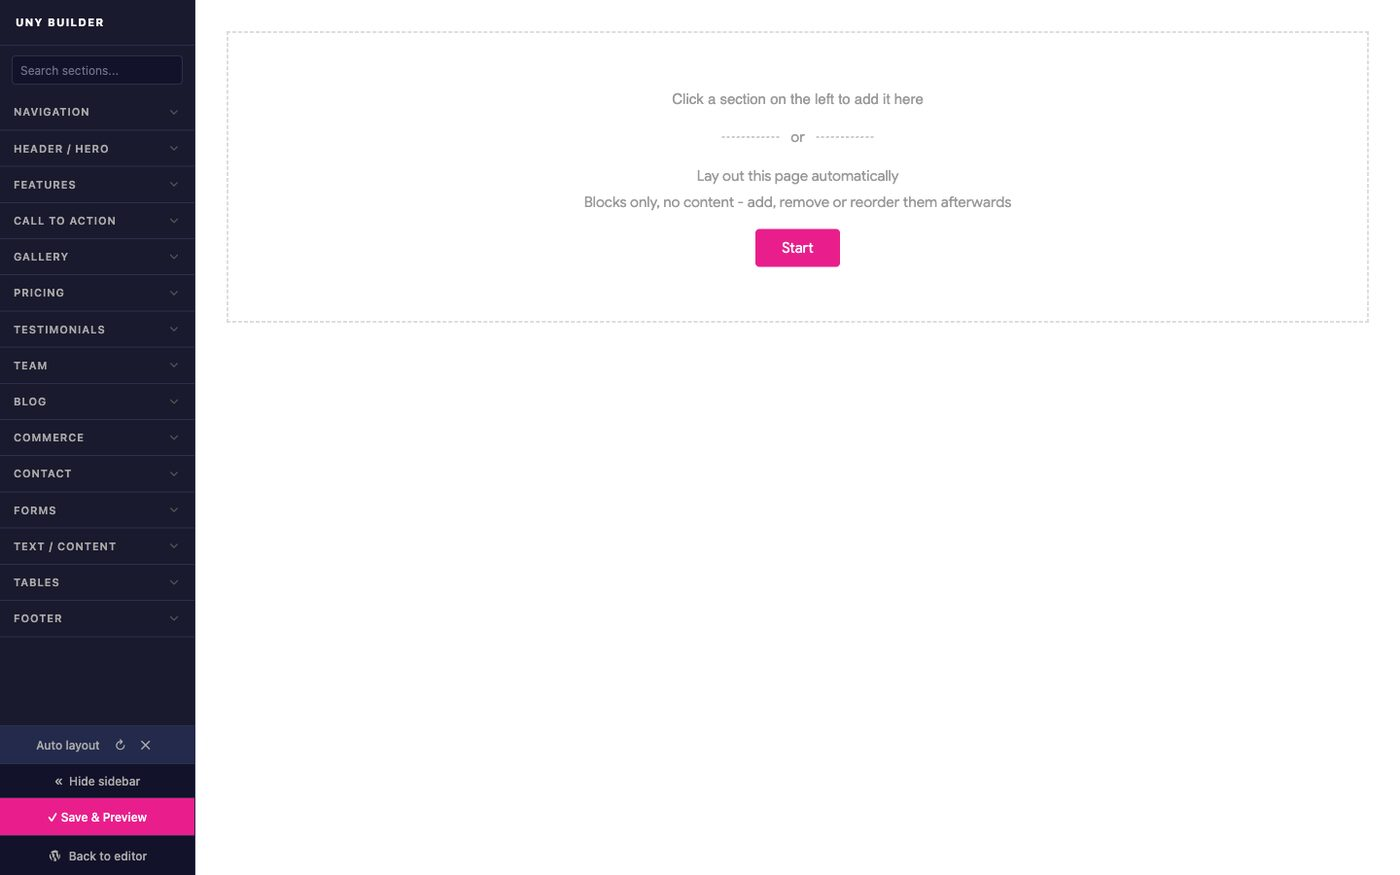
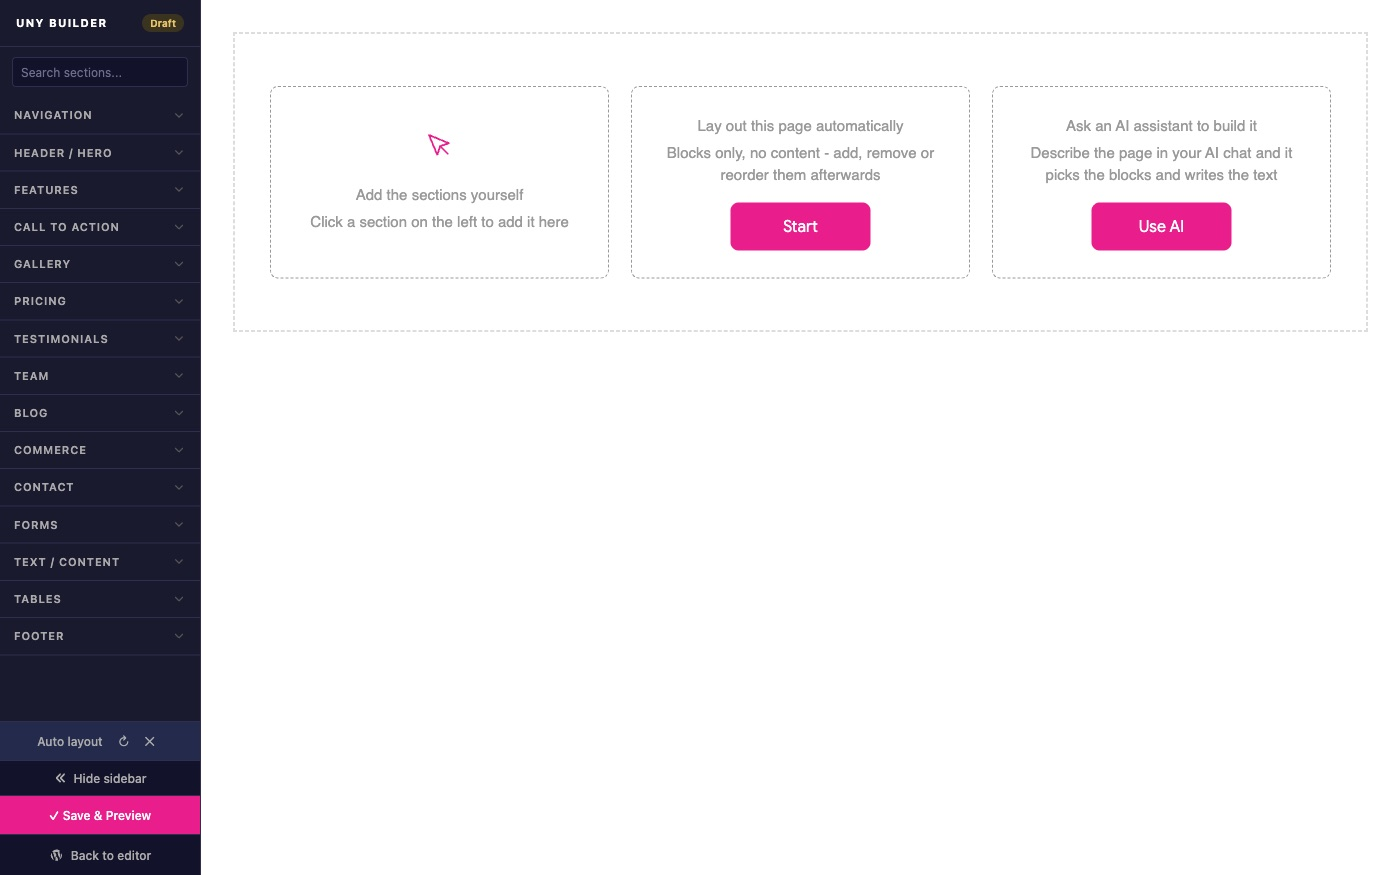
first release docs for uny ai done

diff --git a/src/pages/Builder.jsx b/src/pages/Builder.jsx
@@ -24,7 +24,7 @@ const Builder = () => {
       <main className='page-content'>
         <HeroMini
           title="The Builder"
-          text="214 sections in 15 groups, edited straight on the page - on pages and on blog posts alike. How to insert, fill and reorder them, how the blocks pull in your menus, posts and products by themselves, and the two ways to have a page drafted for you."
+          text="214 sections in 15 groups, edited straight on the page - on pages and on blog posts alike. How to insert, fill and reorder them, how the blocks pull in your menus, posts and products by themselves, and the three ways to fill a page: by hand, by the generator, or by an AI chat."
         />
         <div className="container m-b-120">
           <div className="row col-lg-10 ma">
@@ -113,13 +113,18 @@ const Builder = () => {
 
             <section id="autolayout">
               <h3>8. Auto Layout</h3>
-              <p>On a page with no sections yet, the builder offers to draft one for you.</p>
-              <img src={shotAutoEmpty} alt="The Auto Layout offer on an empty page" className={shot} style={shotStyle} />
-              <p>Describe the page in a line - a shop, a services page, a product page - and the builder composes a matching sequence of sections.</p>
-              <img src={shotAutoModal} alt="The Auto Layout dialog" className={shot} style={shotStyle} />
+              <p>A page with no sections yet does not sit there empty. It offers you the three ways of filling it, side by side:</p>
+              <img src={shotAutoEmpty} alt="The empty builder canvas offering three ways to fill the page" className={shot} style={shotStyle} />
+              <ul>
+                <li><strong>Add the sections yourself</strong> - pick them from the groups in the sidebar, in any order you like.</li>
+                <li><strong>Lay out this page automatically</strong> - press Start and answer one question; the generator picks the blocks and their order.</li>
+                <li><strong>Ask an AI assistant to build it</strong> - the chat route described in the <a href="/assistant">Assistant</a> guide, which fills in the words as well.</li>
+              </ul>
+              <p>Press <strong>Start</strong> on the middle card and the generator asks what the page is about - a product, a services page, a shop, or something you describe in your own words:</p>
+              <img src={shotAutoModal} alt="The Auto Layout dialog asking what the page is about" className={shot} style={shotStyle} />
               <p>Two things worth knowing:</p>
               <ul>
-                <li>It only offers itself on an empty page, and it asks before doing anything. Your existing sections are never overwritten.</li>
+                <li>The offer only appears on an empty page, and it asks before doing anything. Your existing sections are never overwritten.</li>
                 <li>The result is an ordinary set of sections. Reorder, replace or delete any of them exactly as if you had inserted them by hand. It is a starting point, not a template you are locked into.</li>
               </ul>
             </section>
@@ -129,9 +134,10 @@ const Builder = () => {
               <p>Colours, fonts and background shades are set once for every section, on <strong>Uny Builder, Settings</strong>. Nine cards, and the useful part is what happens when you leave a field empty.</p>
               <img src={shotSettings} alt="The builder settings screen with the colour palette" className={shot} style={shotStyle} />
               <ul>
-                <li><strong>Colors.</strong> Nine roles - accent, accent hover, dark, grey, medium, light, muted, border, border dark. An empty field inherits: first from the Uny theme, then from the brand default, and the label beside each field tells you which of those is currently painting your sections. So on a Uny site you change the accent in the Customizer and the sections follow, with nothing to set twice.</li>
+                <li><strong>Palette.</strong> The first control on the Colors card, and the one that decides the most: <em>Follow the theme</em>, <em>Always light</em> or <em>Always dark</em>. It sets what "unset" means for every colour below, so one choice gives you a coherent dark set of sections. Follow the theme takes the scheme from the Customizer, which is what you want on a Uny site; the two fixed options are for sites running another theme, or for keeping sections dark while the rest of the site is light.</li>
+                <li><strong>Colors.</strong> Twelve roles - accent, accent hover, surface, dark, headings, captions, grey, medium, light, muted, border and border dark. An empty field inherits: first from the palette chosen above, then from the Uny theme, then from the brand default, and the label beside each field shows the colour the section will actually be painted with, along with where it came from. So on a Uny site you change the accent in the Customizer and the sections follow, with nothing to set twice. A colour typed into a field always wins, whichever palette is active.</li>
                 <li><strong>Backgrounds.</strong> The two alternative shades offered by the per-section background picker. White, light and dark are fixed; these are the ones you choose. Leave the light alternative empty and it tracks your accent as a very pale wash, which is how a page gets a tint of your brand without you picking a colour at all.</li>
-                <li><strong>Typography.</strong> Twenty-one Google fonts in a list, or type any family name from fonts.google.com yourself. Empty follows the theme.</li>
+                <li><strong>Typography.</strong> Twenty-one Google fonts in a list, or type any family name from fonts.google.com yourself. Empty follows the theme. The first item, <strong>System fonts (no external request)</strong>, asks Google for nothing and sets the sections in the fonts the visitor already has - both on the front end and in the builder canvas, so what you edit is what you publish. The custom field is ignored while it is selected.</li>
                 <li><strong>Logo.</strong> How the brand appears in navigation and footer sections: image with the site name, image only, or name only. The image itself comes from Site Identity in the Customizer.</li>
                 <li><strong>Rendering</strong> reports how pages are assembled on this site - nothing to set, it is there to answer the question rather than make you guess.</li>
                 <li><strong>AI Assistant</strong> shows whether the assistant can run here and links to its own screen.</li>

diff --git a/src/pages/Theme.jsx b/src/pages/Theme.jsx
@@ -31,12 +31,16 @@ const Theme = () => {
             <section>
               <h3>1. What is in the package</h3>
               <p>The download contains the theme itself and the plugins that extend it. The theme renders your site; the builder adds the section library on top of it. They are separate pieces on purpose, so each keeps working without the other.</p>
+              <p>Unpack the file you downloaded and you get folders, not archives, which is what the marketplace allows:</p>
               <ul>
-                <li><strong>Uny theme</strong> - the WordPress theme: templates, palette, typography, blog, WooCommerce styling.</li>
-                <li><strong>Uny Builder</strong> - the plugin with 214 sections in 15 groups and the Auto Layout generator.</li>
-                <li><strong>EWD Widgets</strong> - a small companion plugin that adds the Random Posts widget.</li>
-                <li><strong>Demo content</strong> - the pages, posts, menus and images you see on the live demo.</li>
+                <li><strong>uny</strong> - the WordPress theme: templates, palette, typography, blog, WooCommerce styling.</li>
+                <li><strong>uny-child</strong> - the child theme. Use it if you plan to edit template files, so an update of the parent does not overwrite your work.</li>
+                <li><strong>ewub-uny-builder</strong> - the plugin with 214 sections in 15 groups and the Auto Layout generator.</li>
+                <li><strong>ewd-widgets</strong> - a small companion plugin that adds the Random Posts widget.</li>
+                <li><strong>demo-content-light.xml</strong> and <strong>demo-content-dark.xml</strong> - the demo site, one file per colour scheme. Import one of them, not both.</li>
+                <li><strong>Documentation.txt</strong> - the address of this guide.</li>
               </ul>
+              <p>WordPress installs a theme and a plugin from a ZIP, and it cannot take a folder through the admin screen. So the theme arrives as an archive of its own for that purpose, and the two plugins are offered as archives on the recommended plugins screen described in step 4. Nothing in the package is an archive inside an archive.</p>
             </section>
 
             <section>
@@ -70,6 +74,13 @@ const Theme = () => {
             <section>
               <h3>5. Importing the demo content</h3>
               <p>The importer brings in the demo pages, posts, menus and images. It is the fastest way to understand the theme: you get the live demo on your own installation and can take it apart block by block.</p>
+              <p>There are two demo files, one per colour scheme, and they differ in the palette the pages are built around:</p>
+              <ul>
+                <li><strong>demo-content-light.xml</strong> - the light demo, the one at <a href="https://demo-one-uny-theme.dvostok.com" target="_blank" rel="noreferrer">demo one</a>.</li>
+                <li><strong>demo-content-dark.xml</strong> - the dark demo, the one at <a href="https://demo-two-uny-theme.dvostok.com" target="_blank" rel="noreferrer">demo two</a>.</li>
+              </ul>
+              <p>Import ONE of them. They hold the same pages, so importing both leaves you with two copies of everything. Pick the scheme you want to start from - it is a radio button in the Customizer afterwards either way, and switching it does not require a different import.</p>
+              <p>Run the import under <strong>Tools, Import, WordPress</strong>, with <strong>Download and import file attachments</strong> ticked so the images come across.</p>
               <ul>
                 <li>Import into a clean installation when you can. On a site that already has content the demo adds to it rather than replacing it.</li>
                 <li>Give it time. Images are downloaded one by one, so a slow host can take several minutes.</li>
@@ -106,6 +117,9 @@ const Theme = () => {
 
               <h3>Typography</h3>
               <p><strong>Font Family</strong> offers a list of Google fonts - Inter, Roboto, Lato, Poppins, Montserrat, Raleway, Nunito, Merriweather, Outfit, Syne, Manrope, Figtree, Geist and others. <strong>Custom Google Font name</strong> takes any other Google font by name if yours is not in the list.</p>
+              <p>The first item on the list is <strong>System fonts (no external request)</strong>, and it is there for sites that must not contact anybody. Choose it and the theme asks Google for nothing: no stylesheet, no preconnect or dns-prefetch hint, no font file. Pages are set in the typefaces the visitor's own device already has - San Francisco on a Mac or iPhone, Segoe UI on Windows, Roboto on Android. Nothing else in the theme calls a third-party host, so with this option a Uny site makes no external requests at all, which is usually what a GDPR review is asking about. The pages also render a fraction faster, since there is no font to wait for.</p>
+              <p>The <strong>Custom Google Font name</strong> field is ignored while System fonts is selected. That is deliberate: a family name left over in the field must not quietly switch the outside request back on.</p>
+              <p>The builder has the same option for its sections, on <strong>Uny Builder, Settings, Typography</strong>. Set both if you use the builder, because the plugin setting governs the sections and the theme setting governs the rest of the site.</p>
               <img src={shotTypography} alt="The Typography section of the Customizer" className={shot} style={shotStyle} />
 
               <h3>Header / Logo</h3>

diff --git a/src/pages/Reference.jsx b/src/pages/Reference.jsx
@@ -60,6 +60,8 @@ const Reference = () => {
                 <li><strong>Commerce sections are empty.</strong> WooCommerce is inactive, or the catalogue has no published products.</li>
                 <li><strong>Contact details show the sample phone and address.</strong> They are editable fields on the contact block itself - click the line in the builder and type your own.</li>
                 <li><strong>Colours look off after switching scheme.</strong> The scheme resets the starting shades. Set Color scheme first, then adjust individual colours.</li>
+                <li><strong>Sections stay light on a dark site, or the other way round.</strong> The builder has a palette of its own, on Uny Builder, Settings, Colors. Set it to Follow the theme and the sections take the scheme from the Customizer.</li>
+                <li><strong>The site still asks Google for a font.</strong> The switch is in two places and both matter: Appearance, Customize, Typography for the theme, and Uny Builder, Settings, Typography for the sections. Choose System fonts (no external request) in both. A family name left in the custom field does not override it.</li>
                 <li><strong>The import stalls.</strong> Run it again - imported items are skipped, and slow hosts often need a second pass to finish downloading images.</li>
                 <li><strong>Your chat assistant sees no tools.</strong> The module is off, every tool is switched off, or the client started before you connected it. The assistant chapter covers this in full.</li>
                 <li><strong>No Application Passwords in your profile.</strong> WordPress only offers them on a site served over HTTPS. That affects the AI assistant only; nothing else needs them.</li>
@@ -79,6 +81,13 @@ const Reference = () => {
                 <li><strong>WordPress MCP Adapter</strong> and <strong>PHP MCP Schema</strong> - serve the endpoint the AI assistant connects to. <a href="http://www.gnu.org/licenses/gpl-2.0.html" target="_blank" rel="noopener noreferrer">GPLv2</a>.</li>
                 <li><strong>Google Fonts</strong> - the selectable body and heading fonts. <a href="https://openfontlicense.org/open-font-license-official-text/" target="_blank" rel="noopener noreferrer">SIL Open Font License 1.1</a>.</li>
               </ul>
+              <h4 className="title-part fw-700 m-t-24 m-b-8">What leaves your visitor's browser</h4>
+              <p>Every library above is served from your own site. Two things are fetched from somebody else's server, and because that means a request carrying your visitor's IP address and user agent, both are named here plainly so you can decide about them:</p>
+              <ul>
+                <li><strong>The typeface, from fonts.googleapis.com and fonts.gstatic.com.</strong> Google receives the IP address and user agent of each visitor whose browser asks for the font. You can switch this off completely: choose <strong>System fonts (no external request)</strong> under Appearance, Customize, Typography, and the same option under Uny Builder, Settings, Typography. Pages are then set in the fonts already on the visitor's device and nothing is requested.</li>
+                <li><strong>Map tiles, from OpenFreeMap.</strong> Only on pages that actually place one of the map sections, and only for visitors who reach such a page. OpenFreeMap receives the IP address and the area being viewed. Leave the map sections out of your pages and nothing is requested. There is no API key and no account involved.</li>
+              </ul>
+              <p>Nothing else in the theme or the builder contacts a third party. No analytics, no telemetry, no phoning home: the purchase code goes to our download server only when you press Activate on the licence screen, and only to fetch the two plugins.</p>
             </section>
 
             <section>

diff --git a/rsbuild.config.js b/rsbuild.config.js
@@ -3,12 +3,25 @@ import { pluginReact } from "@rsbuild/plugin-react";
 import { pluginSass } from "@rsbuild/plugin-sass";
 import { ImageMinimizerPlugin } from "@rsbuild/plugin-image-compress";
 
+// Where the built guide is served from. The router needs it as its basename and rsbuild
+// needs it as the asset prefix, so it is declared once here.
+//
+// Empty during `yarn start`, so the dev server keeps working at the root of localhost.
+const BASE = process.env.NODE_ENV === "production" ? "/documentation" : "";
+
 export default defineConfig({
   plugins: [pluginReact(), pluginSass()],
   source: {
     entry: {
       index: './src/index.jsx',
-    }
+    },
+
+    // rsbuild does NOT provide process.env.PUBLIC_URL of its own accord - the first attempt
+    // relied on it and the name survived into the bundle unreplaced, leaving the basename
+    // empty. Defined explicitly instead.
+    define: {
+      'process.env.DOCS_BASENAME': JSON.stringify(BASE),
+    },
   },
   html: {
     template: './public/index.html'
@@ -40,5 +53,13 @@ export default defineConfig({
   },
   output: {
     distPath: { root: "build" },
+
+    // The guide is served from https://uny-theme.dvostok.com/documentation/, not from the
+    // root of a domain. Without this, rsbuild writes absolute paths such as
+    // /static/js/index.js, the browser asks the ROOT of the host for them, gets 404, and
+    // the page renders blank - which is exactly what happened on 23 September: the
+    // documentation link in the item description led to an empty white page while
+    // index.html itself answered 200, so a plain status check saw nothing wrong.
+    assetPrefix: BASE ? BASE + "/" : "/",
   }
 });

diff --git a/src/data/chapters.js b/src/data/chapters.js
@@ -50,7 +50,7 @@ const chapters = [
     id: 6,
     name: 'Settings',
     job: 'Part 6',
-    text: 'The builder admin screen, where colours, fonts and background shades are set once for every section: nine colour roles with your own hex values, the two alternative background shades, twenty-one Google fonts or any family you name, and how the logo appears in navigation and footer blocks. Leave a field empty and it inherits from the theme, so an accent changed in the Customizer moves the sections with it.',
+    text: 'The builder admin screen, where colours, fonts and background shades are set once for every section: the light or dark palette the sections start from, twelve colour roles with your own hex values, the two alternative background shades, twenty-one Google fonts or the system fonts of the visitor, and how the logo appears in navigation and footer blocks. Leave a field empty and it inherits from the theme, so an accent changed in the Customizer moves the sections with it.',
     pic: shotSettings,
     link: '/builder#settings'
   }

diff --git a/src/index.jsx b/src/index.jsx
@@ -9,10 +9,23 @@ import 'slick-carousel/slick/slick.css'
 import 'slick-carousel/slick/slick-theme.css'
 import './styles/custom.sass'
 
+/**
+ * The guide is published under /documentation/ on uny-theme.dvostok.com, and the routes in
+ * App.jsx are declared without that prefix - `theme`, `builder`, `reference`. Without a
+ * basename the router compares the full path /documentation/builder against them, matches
+ * nothing and shows its own "page doesn't exist" screen, which is what a reviewer following
+ * the documentation link saw on 23 September.
+ *
+ * The value comes from rsbuild.config.js, where it is declared once and used both here and
+ * as the asset prefix. It is empty during `yarn start`, so the dev server keeps working at
+ * the root of localhost.
+ */
+const basename = process.env.DOCS_BASENAME || '/'
+
 const root = ReactDOM.createRoot(document.getElementById('root'))
 root.render(
   <React.StrictMode>
-    <BrowserRouter>
+    <BrowserRouter basename={basename}>
       <App />
     </BrowserRouter>
   </React.StrictMode>,

diff --git a/src/data/faq.js b/src/data/faq.js
@@ -32,7 +32,7 @@ const faq = [
   {
     id: 7,
     question: "How do I get the demo content?",
-    answer: "Install the recommended plugins, then run the importer described in the Theme guide. It brings in the demo pages, posts, menus and images so you can take the live demo apart and rebuild it into your own site."
+    answer: "Two files come with the download, one per colour scheme: demo-content-light.xml and demo-content-dark.xml. Install the recommended plugins, then import ONE of them under Tools, Import, WordPress, as described in the Theme guide. Both hold the same pages, so importing both would leave you with two copies of everything. It brings in the demo pages, posts, menus and images so you can take the live demo apart and rebuild it into your own site."
   },
   {
     id: 8,

diff --git a/public/index.html b/public/index.html
@@ -36,10 +36,10 @@
   <link rel="preconnect" href="https://fonts.gstatic.com" crossorigin>
   <link href="https://fonts.googleapis.com/css2?family=Google+Sans:wght@300;400;500;600;700;800&display=swap" rel="stylesheet">
   <!-- Icons -->
-  <link rel="icon" href="/favicon.ico" />
-  <link rel="icon" type="image/svg+xml" href="/icon.svg" />
-  <link rel="apple-touch-icon" href="/logo192.png" />
-  <link rel="manifest" href="/manifest.json" />
+  <link rel="icon" href="/documentation/favicon.ico" />
+  <link rel="icon" type="image/svg+xml" href="/documentation/icon.svg" />
+  <link rel="apple-touch-icon" href="/documentation/logo192.png" />
+  <link rel="manifest" href="/documentation/manifest.json" />
 </head>
 <body>
   <div id="root"></div>

diff --git a/src/data/features.js b/src/data/features.js
@@ -64,7 +64,7 @@ const features = [
   {
     id: 11,
     title: "Demo content included",
-    text: "Import the demo pages, posts, menus and images, and you have the live demo on your own installation - ready to take apart block by block and turn into your own site.",
+    text: "Two importable files, one for the light demo and one for the dark. Bring in the pages, posts, menus and images, and you have the live demo on your own installation - ready to take apart block by block.",
     icon: PiDownloadSimpleLight
   },
   {
